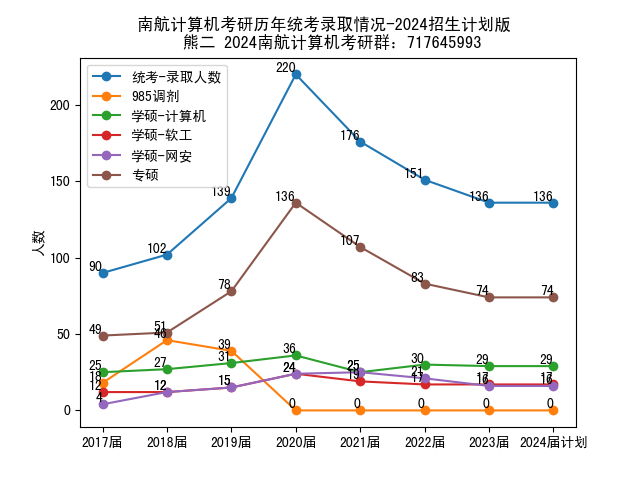
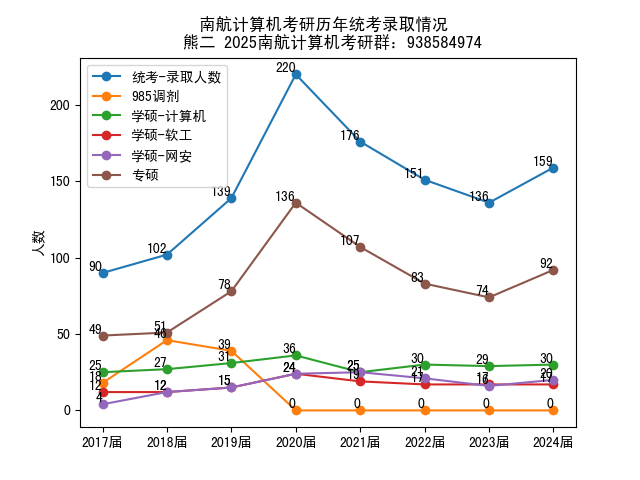
update

diff --git a/trend_plot.py b/trend_plot.py
@@ -17,13 +17,13 @@ line_marker = '-o'
 
 x = [1, 2, 3, 4, 5, 6, 7, 8]
 # data
-x_label = ["2017届", "2018届", "2019届", "2020届", "2021届", "2022届", "2023届", "2024届计划"]
-y_统考_录取人数 = [90, 102, 139, 220, 176, 151, 136, 136]
+x_label = ["2017届", "2018届", "2019届", "2020届", "2021届", "2022届", "2023届", "2024届"]
+y_统考_录取人数 = [90, 102, 139, 220, 176, 151, 136, 159]
 y_985调剂_录取人数 = [18, 46, 39, 0, 0, 0, 0, 0]
-y_学硕_计算机_录取人数 = [25, 27, 31, 36, 25, 30, 29, 29]
+y_学硕_计算机_录取人数 = [25, 27, 31, 36, 25, 30, 29, 30]
 y_学硕_软工_录取人数 = [12, 12, 15, 24, 19, 17, 17, 17]
-y_学硕_网安_录取人数 = [4, 12, 15, 24, 25, 21, 16, 16]
-y_专硕_录取人数 = [49, 51, 78, 136, 107, 83, 74, 74]
+y_学硕_网安_录取人数 = [4, 12, 15, 24, 25, 21, 16, 20]
+y_专硕_录取人数 = [49, 51, 78, 136, 107, 83, 74, 92]
 
 y_list = [(y_统考_录取人数, "统考-录取人数"),
           (y_985调剂_录取人数, "985调剂"),
@@ -34,7 +34,7 @@ y_list = [(y_统考_录取人数, "统考-录取人数"),
 
 plt.xticks(x, x_label)
 plt.ylabel("人数")
-plt.title("南航计算机考研历年统考录取情况-2024招生计划版 \n 熊二 2024南航计算机考研群：717645993")
+plt.title("南航计算机考研历年统考录取情况 \n 熊二 2025南航计算机考研群：938584974")
 
 for y in y_list[:]:
     plt.plot(x, y[0], "-o", label=y[1])

diff --git a/analysis_2024_总分分析.py b/analysis_2024_总分分析.py
@@ -34,7 +34,7 @@ def load_total_score_dataframe():
 def analysis_total_score():
     """已经剔除了退伍大学生计划的数据"""
     pd_data = load_total_score_dataframe()
-    pd_data_group_describe = pd_data.groupby(["专业"]).describe()
+    pd_data_group_describe = pd_data.groupby(["专业"]).describe().round(1)
     pd_data_group_describe.to_csv("2024-初复试总分分析.csv", encoding="utf8")
     print(pd_data_group_describe)
 
